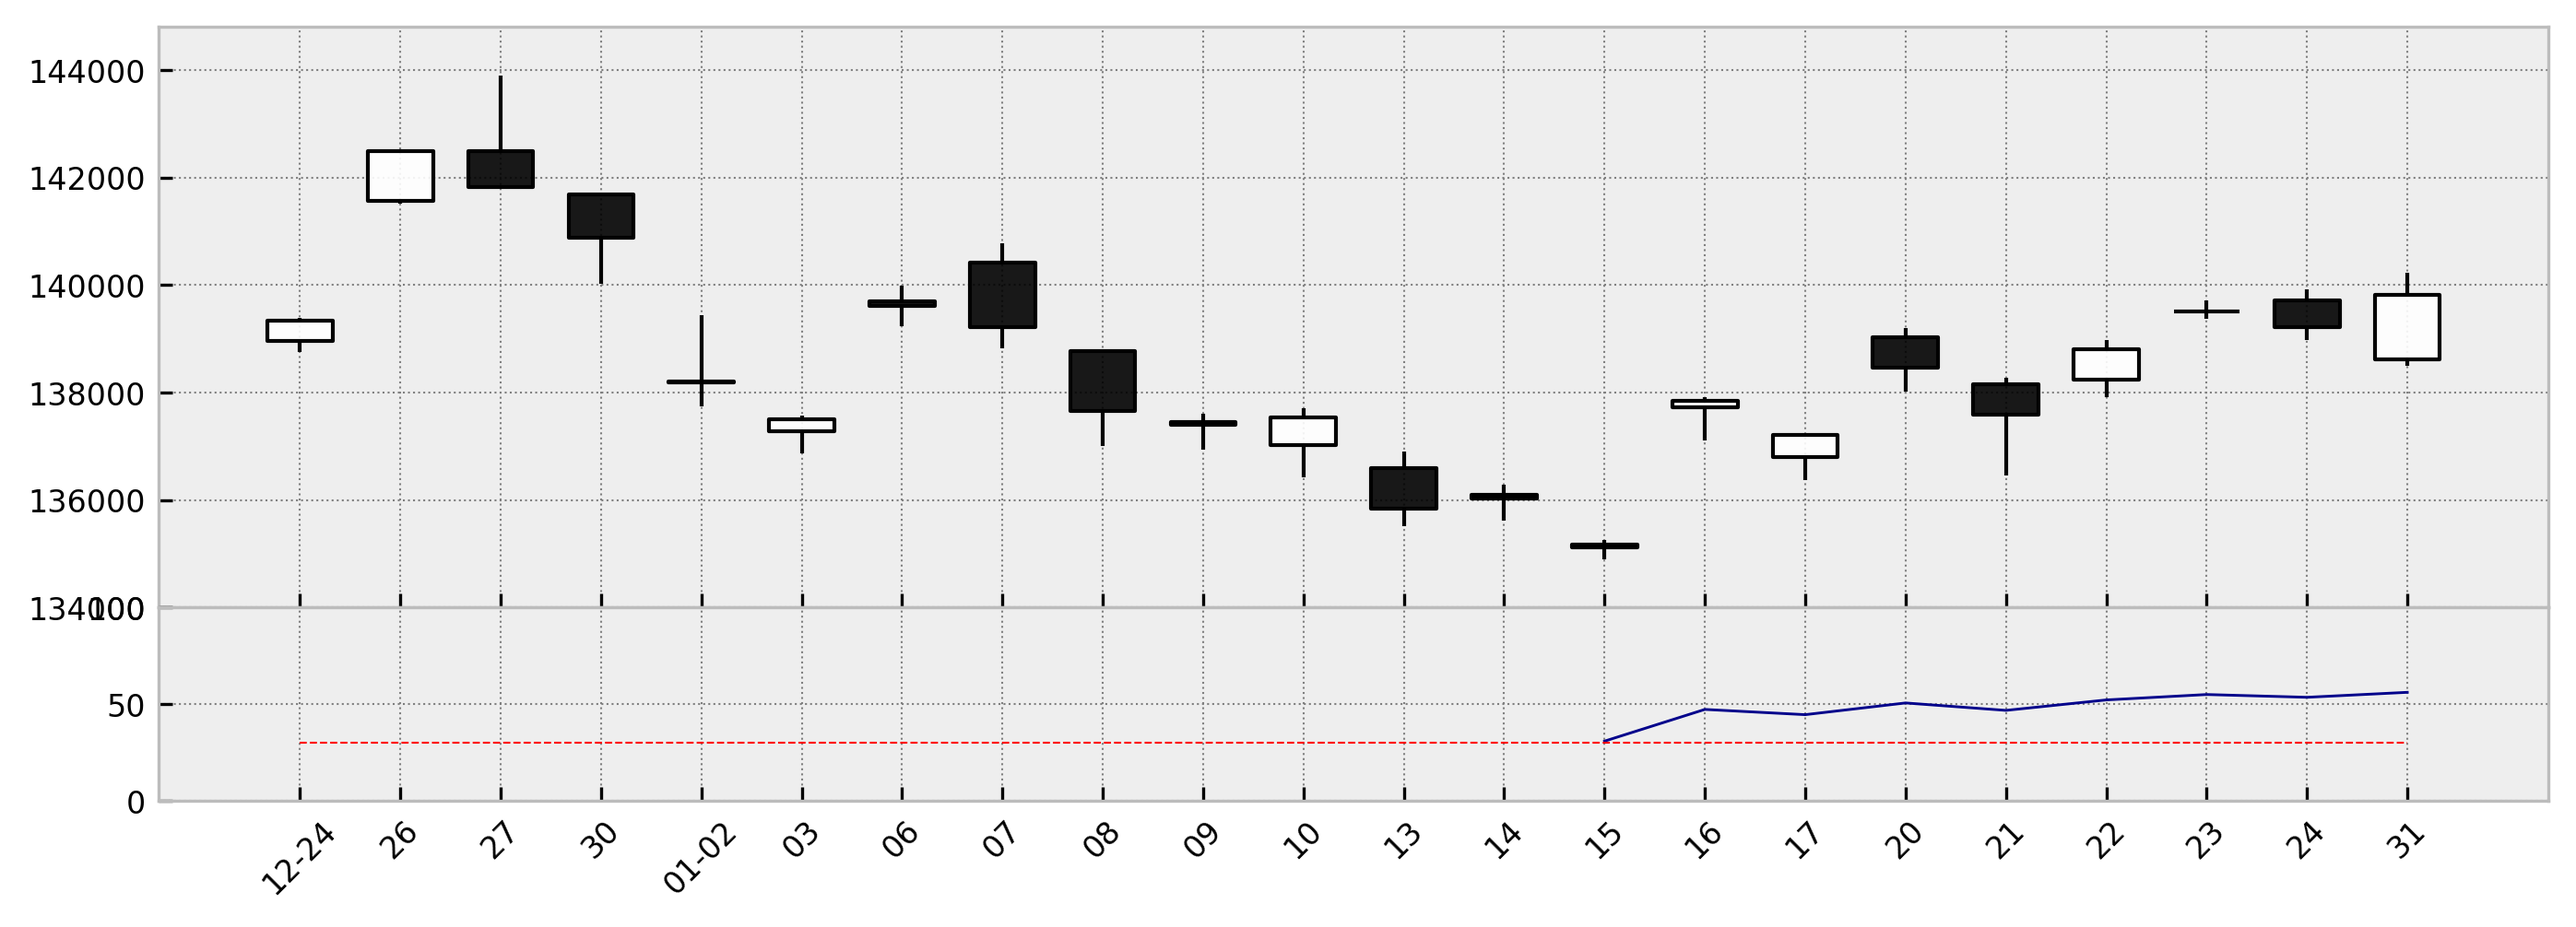
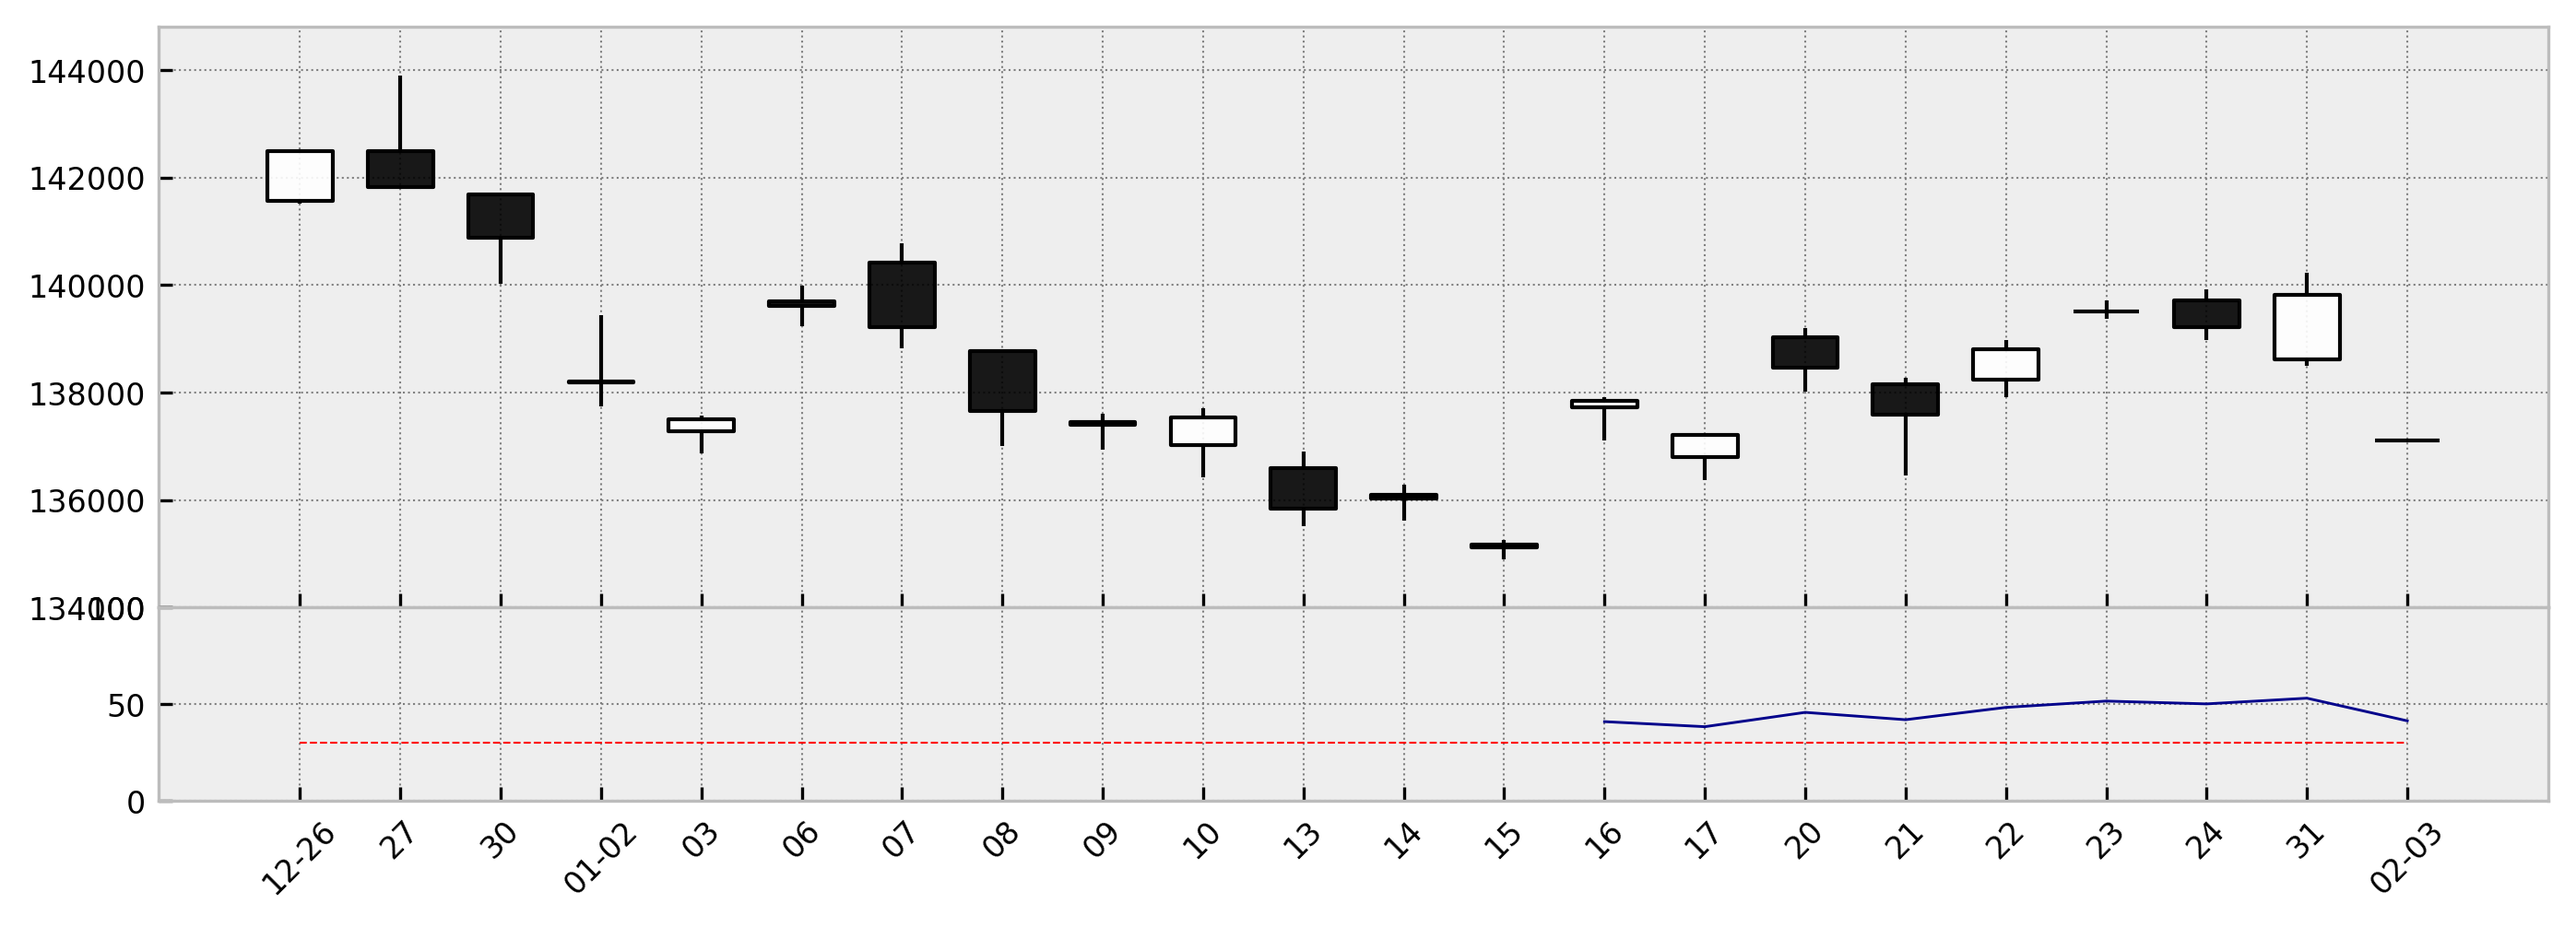
Update web contents - 2025-02-03 09:00:37

diff --git a/index.html b/index.html
@@ -9,16 +9,16 @@
 <body>
     <div class="container">
         <div class="header">
-            <div class="date"><span class="title-text">Binance</span>  2025-02-02 09:00:07</div>
+            <div class="date"><span class="title-text">Binance</span>  2025-02-03 09:00:07</div>
             <div class="info">
                 <div class="info-item">
                     <span class="label">Total Value: </span>
-                    <span class="value">$ 318.1301</span>
+                    <span class="value">$ 276.056</span>
                 </div>
                 <div class="info-group">
                     <div class="info-item">
                         <span class="label">Capital: </span>
-                        <span class="value">$ 36.4957</span>
+                        <span class="value">$ 2.6203</span>
                     </div>
                     <div class="info-item">
                         <span class="label">Position (BTC): </span>
@@ -36,32 +36,38 @@
             <div class="info-group">
                 <div class="info-item">
                     <span class="label">Close(-1D): </span>
-                    <span class="value">$ 100,603.6</span>
+                    <span class="value">$ 97,664.5</span>
                 </div>
                 <div class="info-item">
                     <span class="label">Threshold_Low: </span>
-                    <span class="value">$ 97,596.2</span>
+                    <span class="value">$ 98,524.6</span>
                 </div>
             </div>
             <div class="info-group">
                 <div class="info-item">
                     <span class="label">Threshold_High: </span>
-                    <span class="value">$ 106,682.1</span>
+                    <span class="value">$ 106,086.9</span>
                 </div>
                 <div class="info-item">
                     <span class="label">ADX: </span>
-                    <span class="value">13.1</span>
+                    <span class="value">14.3</span>
                 </div>
             </div>
             <div class="info-group">
                 <div class="info-item">
                     <span class="label">BRK cnt: </span>
-                    <span class="value">46</span>
+                    <span class="value">47</span>
                 </div>
                 <div class="info-item">
                     <span class="alert-label">Signal: </span>
-                    <span class="value">KEEP</span>
+                    <span class="value">SELL_BELOW_LOWER_BAND</span>
                 </div>
+            </div>
+        </div>
+        
+        <div class="info">
+            <div class="log">
+                - Sell Order<br>- orderId: 572579527560<br>- symbol: BTCUSDT<br>- status: NEW<br>- clientOrderId: x-xcKtGhcu642870f8c69bf48c51b638<br>- price: 97664.50<br>- avgPrice: 0.00<br>- origQty: 0.001<br>- executedQty: 0.000<br>- cumQty: 0.000<br>- cumQuote: 0.00000<br>- timeInForce: GTC<br>- type: LIMIT<br>- reduceOnly: True<br>- closePosition: False<br>- side: SELL<br>- positionSide: BOTH<br>- stopPrice: 0.00<br>- workingType: CONTRACT_PRICE<br>- priceProtect: False<br>- origType: LIMIT<br>- priceMatch: NONE<br>- selfTradePreventionMode: EXPIRE_MAKER<br>- goodTillDate: 0<br>- updateTime: 1738540809272<br>
             </div>
         </div>
         
@@ -70,35 +76,35 @@
         
         <div class="header">
             <div class="info">
-                <div class="date"><span class="title-text">TIGER Nasdaq100</span>  2025-02-02 09:00:11</div>
+                <div class="date"><span class="title-text">TIGER Nasdaq100</span>  2025-02-03 09:00:23</div>
                 <div class="info-group">
                     <div class="info-item">
                         <span class="label">Open(Today): </span>
-                        <span class="value">138,615</span>
+                        <span class="value">137,100</span>
                     </div>
                     <div class="info-item">
                         <span class="label">Close(-1D): </span>
-                        <span class="value">139,210</span>
+                        <span class="value">139,825</span>
                     </div>
                 </div>
                 <div class="info-group">
                     <div class="info-item">
                         <span class="label">Close(-1D) * 1.1: </span>
-                        <span class="value">140,602.1</span>
+                        <span class="value">141,223.2</span>
                     </div>
                     <div class="info-item">
                         <span class="label">20MA: </span>
-                        <span class="value">138,406.0</span>
+                        <span class="value">138,272.8</span>
                     </div>
                 </div>
                 <div class="info-group">
                     <div class="info-item">
                         <span class="label">Deviation: </span>
-                        <span class="value">100.6</span>
+                        <span class="value">101.1</span>
                     </div>
                     <div class="info-item">
                         <span class="alert-label">Alert: </span>
-                        <span class="value">-</span>
+                        <span class="value">buy</span>
                     </div>
                 </div>
             </div>
@@ -112,7 +118,7 @@
 
         <div class="header">
             <div class="info">
-                <div class="date"><span class="title-text">Index</span>  2025-02-02 09:00:14</div>
+                <div class="date"><span class="title-text">Index</span>  2025-02-03 09:00:26</div>
             </div>
         </div>
 

diff --git a/fam_index.html b/fam_index.html
@@ -13,35 +13,35 @@
         
         <div class="header">
             <div class="info">
-                <div class="date"><span class="title-text">TIGER 미국나스닥100(133690)</span>  2025-02-02 09:00:11</div>
+                <div class="date"><span class="title-text">TIGER 미국나스닥100(133690)</span>  2025-02-03 09:00:23</div>
                 <div class="info-group">
                     <div class="info-item">
                         <span class="label">시작가(금일): </span>
-                        <span class="value">138,615</span>
+                        <span class="value">137,100</span>
                     </div>
                     <div class="info-item">
                         <span class="label">종가(어제): </span>
-                        <span class="value">139,210</span>
+                        <span class="value">139,825</span>
                     </div>
                 </div>
                 <div class="info-group">
                     <div class="info-item">
                         <span class="label">종가(어제) * 1.1: </span>
-                        <span class="value">140,602.1</span>
+                        <span class="value">141,223.2</span>
                     </div>
                     <div class="info-item">
                         <span class="label">20일 이동평균: </span>
-                        <span class="value">138,406.0</span>
+                        <span class="value">138,272.8</span>
                     </div>
                 </div>
                 <div class="info-group">
                     <div class="info-item">
                         <span class="label">이격도: </span>
-                        <span class="value">100.6</span>
+                        <span class="value">101.1</span>
                     </div>
                     <div class="info-item">
                         <span class="alert-label">신호: </span>
-                        <span class="value"><span class="value">거래 불가</span></span>
+                        <span class="value"><span class="value">안샀으면 매수(샀으면 유지)</span></span>
                     </div>
                 </div>
             </div>
